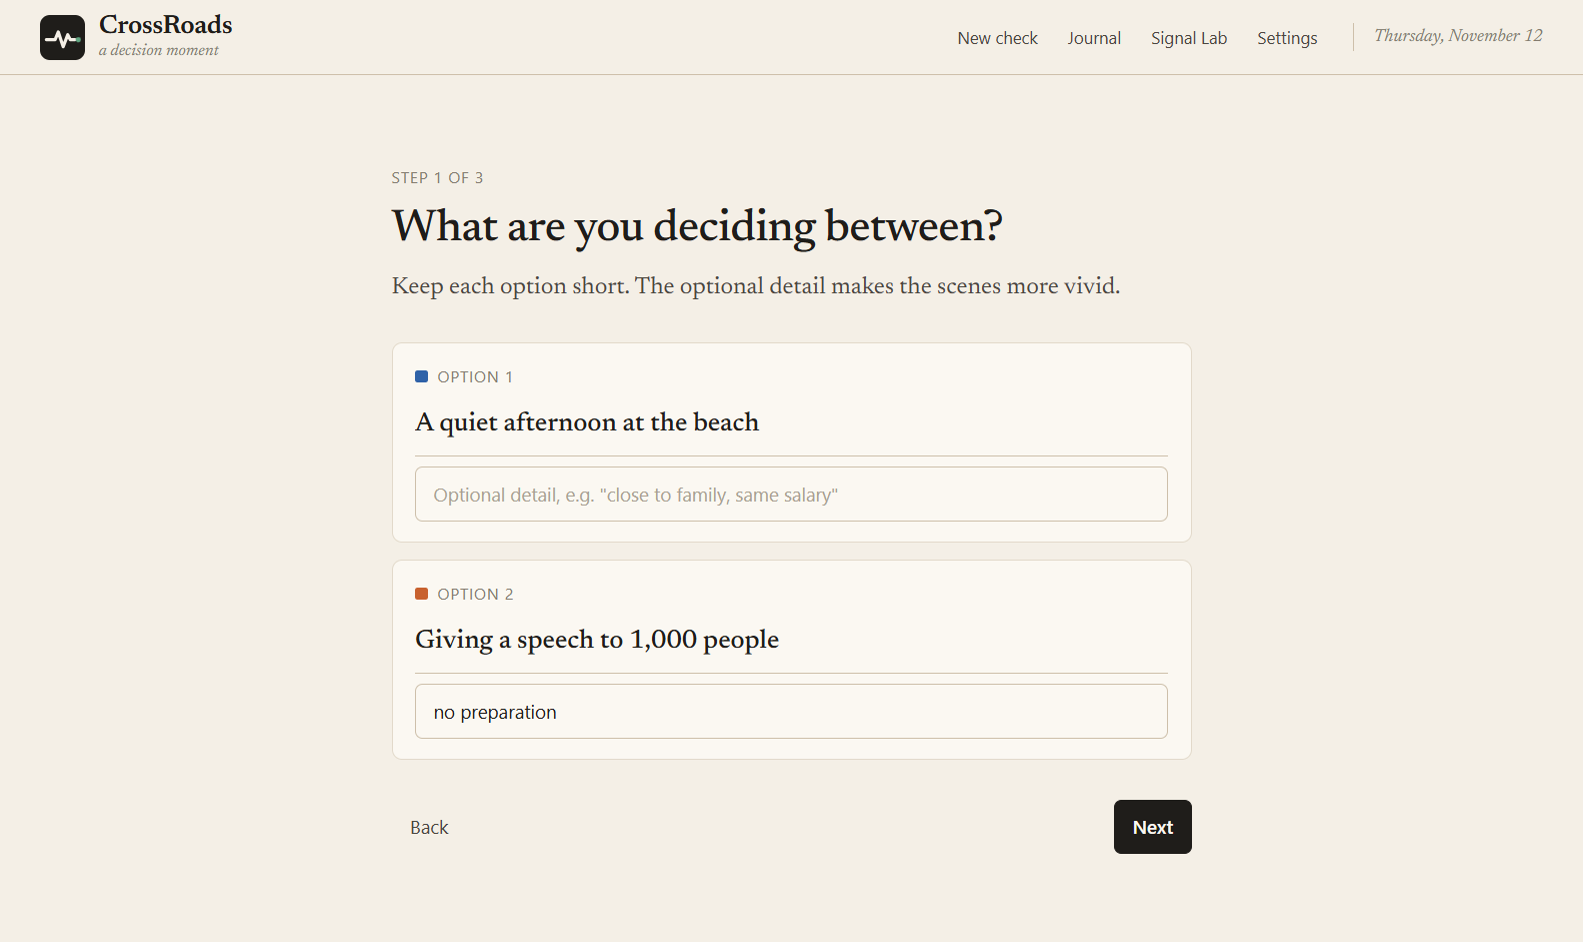
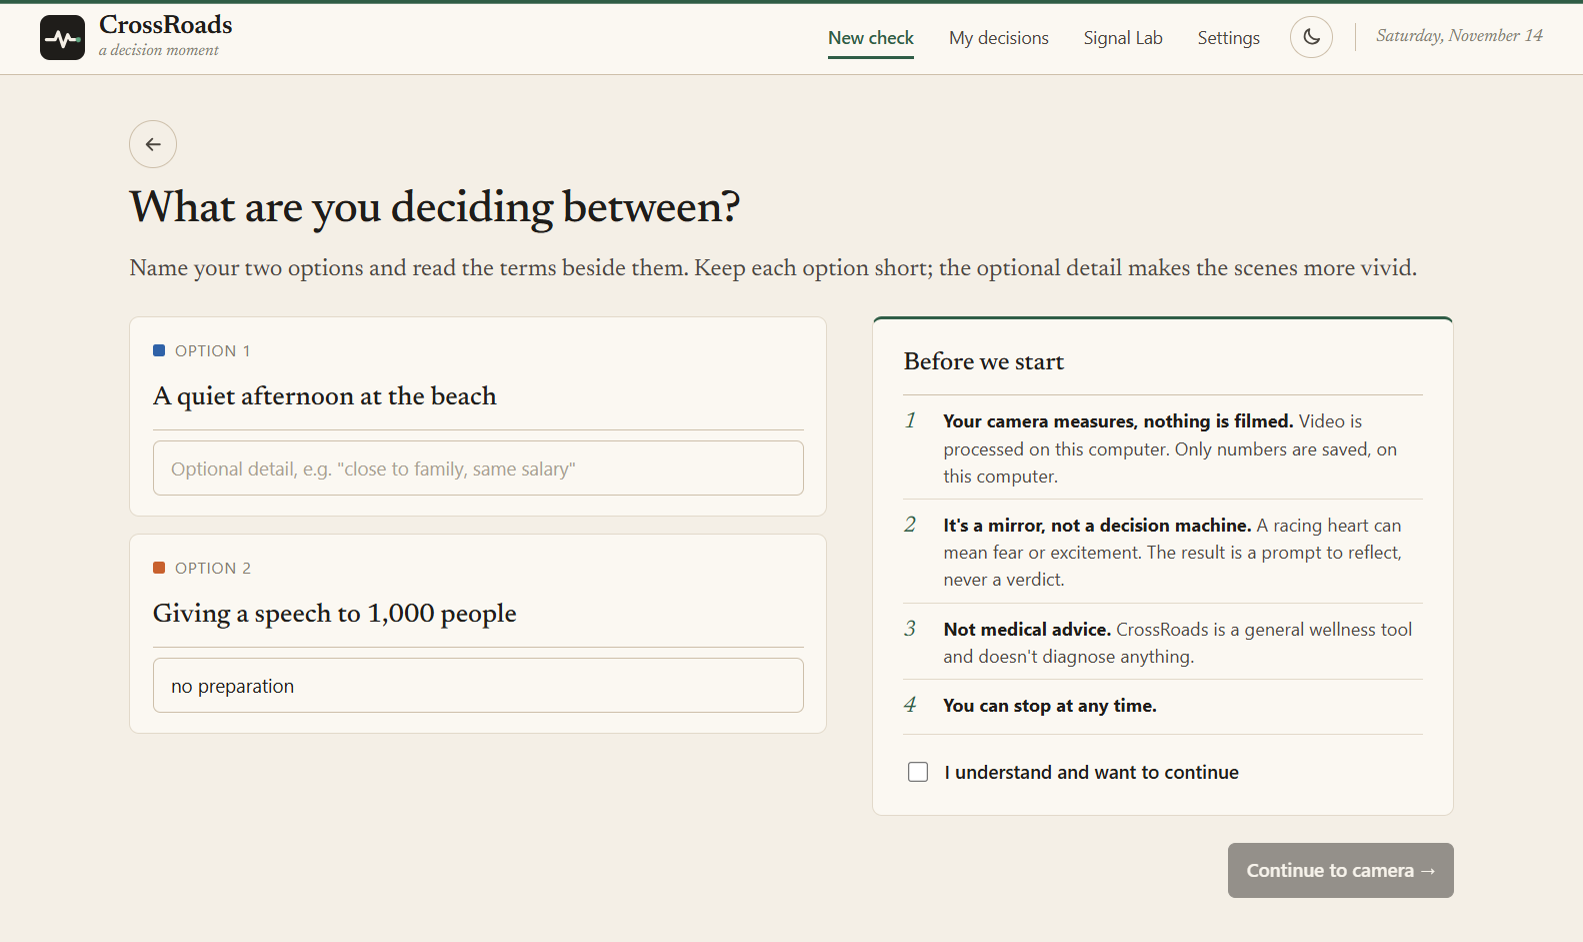
README screenshots retaken from the final UI (real sessions, dark mode, My decisions); validation notes cover the Nov 14 sessions and installer scan

diff --git a/src/main/main.js b/src/main/main.js
@@ -344,7 +344,10 @@ function createWindow() {
         const positions = ['0', '(document.body.scrollHeight - innerHeight) / 2', 'document.body.scrollHeight'];
         // GUTCHECK_SCROLLTO=<css selector> keeps every shot on that section instead of cycling.
         if (process.env.GUTCHECK_SCROLLTO) {
-          positions.fill(`document.querySelector(${JSON.stringify(process.env.GUTCHECK_SCROLLTO)}).getBoundingClientRect().top + scrollY - 100`);
+          const t = process.env.GUTCHECK_SCROLLTO;
+          // "#id" style selector, or "@<index>" for the n-th results section.
+          const el = t.startsWith('@') ? `document.querySelectorAll('.r-section')[${Number(t.slice(1))}]` : `document.querySelector(${JSON.stringify(t)})`;
+          positions.fill(`${el}.getBoundingClientRect().top + scrollY - 90`);
         }
         await win.webContents.executeJavaScript(`window.scrollTo(0, ${positions[n % 3]})`);
         const img = await win.webContents.capturePage();

diff --git a/README.md b/README.md
@@ -30,8 +30,8 @@
 > **TL;DR** · Stuck between two options? CrossRoads guides you through short scenes for each option, **twice, in a mirrored order (A B B A)**, while the [Presage SmartSpectra SDK](https://smartspectra.presagetech.com/) reads your pulse from your camera. It then shows a **mirror, not a verdict**: your pulse through the session, the moments your body reacted, and questions to reflect on. It names a "calmer" option **only when both rounds agree beyond normal pulse wobble**. We tested that rule against ourselves: a tea-vs-coffee control (it correctly said nothing) and a beach-vs-speech positive control (it found the calm option once, and on an identical repeat it honestly said it could not tell). Everything runs on your computer; video is never saved.
 
 <p align="center">
-  <img src="docs/images/05-results-verdict.png" width="900" alt="CrossRoads results screen for the bundled sample session">
-  <br><sub>The bundled sample session (recorded by the developer): a calm scene vs a stressful scene, each imagined twice.</sub>
+  <img src="docs/images/05-results-verdict.png" width="900" alt="CrossRoads results screen for a real check">
+  <br><sub>A real check by the developer: the pulse was about 10 bpm lower in both rounds for one option. A mirror, not a verdict.</sub>
 </p>
 
 ## Contents
@@ -76,9 +76,10 @@ Light by default, with a dark "night journal" mode (moon button, or Settings →
 
 | | |
 |---|---|
-| ![Welcome](docs/images/01-welcome.png)<br><sub>Welcome: begin a check, or try the sample without a camera.</sub> | ![Options](docs/images/02-options.png)<br><sub>Two options, each with an optional detail woven into the prompts.</sub> |
-| ![Session](docs/images/04-session.png)<br><sub>During a session: live tiles (pulse with a heart beating at your rate, breathing, blinks, expression), the prompt, progress through the four visits. <em>Sample replay shown.</em></sub> | ![Consent](docs/images/03-consent.png)<br><sub>Consent before any measurement.</sub> |
-| ![Timeline](docs/images/06-results-timeline.png)<br><sub>Pulse through the session; hover any point to see the prompt on screen at that moment. <em>Sample.</em></sub> | ![Moments](docs/images/07-results-moments.png)<br><sub>Moments your body reacted, and questions to sit with. <em>Sample.</em></sub> |
+| ![Welcome](docs/images/01-welcome.png)<br><sub>Welcome: begin a check, or try the sample without a camera.</sub> | ![Options](docs/images/02-options.png)<br><sub>Two options on one page, with the consent beside them.</sub> |
+| ![Session](docs/images/04-session.png)<br><sub>During a session: live tiles, the prompt, and the live pulse line (it takes the colour of the option you are imagining). <em>Sample replay shown.</em></sub> | ![Numbers](docs/images/08-results-numbers.png)<br><sub>By the numbers: each option's average, then every visit with its pulse, breathing, blinks and signal quality.</sub> |
+| ![Timeline](docs/images/06-results-timeline.png)<br><sub>Pulse through the session: reliable readings in black, lower-confidence ones faint, each visit's average in the option's colour. Hover to see the prompt at that moment.</sub> | ![Moments](docs/images/07-results-moments.png)<br><sub>Moments your body reacted, and questions to sit with.</sub> |
+| ![My decisions](docs/images/10-my-decisions.png)<br><sub>My decisions: every check, what you decided, and how it compared with your body. Stored only on your computer.</sub> | ![Dark mode](docs/images/09-dark-mode.png)<br><sub>Night-journal dark mode.</sub> |
 
 ## How it responds to human signals
 
@@ -101,14 +102,17 @@ The first version compared each option once with a calm baseline. Our **tea-vs-c
 
 ![Validation results](docs/images/validation.svg)
 
-| Validation session (Nov 12, daylight) | CrossRoads said |
+| Validation session (daylight) | CrossRoads said |
 |---|---|
 | Control: drink tea vs drink coffee | **Didn't pick a side** ✓ (a looser rule would have said "calmer with tea") |
 | Real decision: stay in my city vs move to Bangalore | **Didn't pick a side** (the two rounds disagreed) |
 | Positive control, run 1: a quiet afternoon at the beach vs giving a speech to 1,000 people with no preparation | **Calmer with the beach** ✓ (−10.0 and −8.1 bpm) |
 | Positive control, run 2: the same two options again, ~8 hours later, better signal | **Didn't pick a side** (the rounds disagreed: speech +2.1, then −7.5 bpm) |
+| Nov 14, final build: stay in my city vs move to Bangalore (again) | **Didn't pick a side** (70.0 vs 70.0 bpm) |
+| Nov 14: do a master's abroad vs start working | **No clear winner**, but one moment stood out (+8.4 bpm at "what did you give up for it?") |
+| Nov 14: tell my parents I want a different career vs keep going with the path they chose | **Calmer with "keep going"** (both rounds beyond 6 bpm; says nothing about which is right) |
 
-The app never invented a winner when the evidence was weak or contradictory, and it found a real reaction once but not on the repeat, so a clear reaction is not guaranteed in a four-minute session. Four sessions from one person are not a study. Full numbers, the calibration and the limits: [docs/VALIDATION.md](docs/VALIDATION.md). Check the sample yourself with `npm run analyze`.
+The app never invented a winner when the evidence was weak or contradictory. Across seven sessions it named a calmer option twice and said "no clear winner" five times, and it found the beach reaction once but not on the repeat, so a clear reaction is not guaranteed in a four-minute session. Seven sessions from one person are not a study. Full numbers, the calibration and the limits: [docs/VALIDATION.md](docs/VALIDATION.md). Check the sample yourself with `npm run analyze`.
 
 <details>
 <summary><strong>How the verdict is decided</strong></summary>
@@ -191,7 +195,7 @@ npm start
 
 ## Limitations
 
-- **One person, four validation sessions.** Not a study. The positive control was found once and not on the repeat.
+- **One person, seven validation sessions.** Not a study. The positive control was found once and not on the repeat.
 - **Pulse wobbles 6–9 bpm minute to minute**, so most real decisions will honestly show no clear winner. That is the point of a mirror. When one prompt still made your pulse jump by 6 bpm or more, the result leads with it, as a question rather than proof (single moments can be chance).
 - **The SDK's pulse is a ~12 s rolling average**; moments are reflection cues, not second-by-second measurements.
 - **A higher pulse isn't "worse"**: excitement and fear both raise it. The app asks; it never decides.

diff --git a/docs/VALIDATION.md b/docs/VALIDATION.md
@@ -13,10 +13,17 @@
 | **Positive control, run 1:** "a quiet afternoon at the beach" vs "giving a speech to 1,000 people with no preparation" | a real reaction | speech +10.0 | speech +8.1 | **Calmer with the beach** ✓ |
 | **Positive control, run 2** (same options, installed app, ~8 hours later) | a real reaction | speech +2.1 | speech −7.5 | **Didn't pick a side** (rounds disagree) |
 
+| Session (Nov 14, daylight) | What should happen | Round 1 | Round 2 | CrossRoads said |
+|---|---|---|---|---|
+| **Real decision, repeated:** "stay in my city" vs "move to Bangalore" | unknown | Bangalore +0.3 | Bangalore −0.3 | **Didn't pick a side** (a true tie: 70.0 vs 70.0 bpm) |
+| **Real decision:** "do a master's abroad" vs "start working after graduation" | unknown | work −2.1 | work +8.0 | **No clear winner** (rounds disagree), one moment stood out: +8.4 bpm at "what did you give up for it?" |
+| **Real decision:** "tell my parents I want a different career" vs "keep going with the path they chose" | unknown | telling +10.7 | telling +9.4 | **Calmer with "keep going"** (both rounds beyond 6 bpm; says nothing about which is right) |
+
 **What this shows, honestly:**
 - The app **never invented a winner** in the three sessions where the evidence was weak or contradictory (control, real decision, positive control run 2). That is the property that matters most.
 - It **found the calm option once** (run 1) but **not on a repeat** (run 2), even though run 2 had excellent signal quality. So a clear reaction is **not guaranteed to show up** in a four-minute session; the repeat is the more cautious, more honest data point.
 - Four sessions from one person are encouraging about honesty, and a reminder about sensitivity. This is not a study.
+- **Three more on Nov 14** (final build, same person): of the seven sessions in total the app named a calmer option twice (the beach, and a real career decision where both rounds agreed by about 10 bpm), and said "no clear winner" five times, including the tea-vs-coffee control. Most real decisions are mixed, which is why "didn't pick a side" has to be a respectable answer rather than a failure.
 
 ## 1. The first design failed its own control (Nov 11)
 
@@ -60,7 +67,7 @@ The rule, as implemented in [`src/core/analysis.js`](../src/core/analysis.js):
 
 ![Verdict flow](images/verdict-flow.svg)
 
-## 4. The three validation sessions (Nov 12)
+## 4. The validation sessions (Nov 12 and Nov 14)
 
 Setup: daylight from a window, Samsung phone as the camera through Windows Phone Link (steady 30 fps), sitting back, reading prompts silently.
 
@@ -85,6 +92,23 @@ Notes:
 - In the control, tea was lower in both rounds (by 5.0 and 3.9 bpm). A looser rule would have announced "calmer with tea"; the 6 bpm floor correctly refused.
 - The positive control had weaker signal; its first speech visit kept 9 reliable readings (the minimum is 8). The verdict is valid but close to the data-quality edge.
 - The real decision's rounds pointed in opposite directions. "Didn't pick a side" is the honest answer, not a failure.
+
+### Nov 14: three real decisions on the final build
+
+Same setup (daylight, phone camera, 30 fps), same person, about 15 minutes apart with rest between.
+
+| Session | Order | A₁ | B₁ | A₂ | B₂ | Stable readings | Verdict |
+|---|---|---|---|---|---|---|---|
+| City (A) vs Bangalore (B) | B A A B | 69.1 (12) | 69.5 (9) | 70.8 (8) | 70.5 (13) | 79% | didn't pick a side |
+| Master's (A) vs work (B) | B A A B | 69.8 (29) | 67.8 (9) | 69.3 (27) | 77.3 (27) | 92% | no clear winner |
+| Telling parents (A) vs keep going (B) | A B B A | 70.5 (30) | 59.8 (11) | 65.8 (28) | 75.3 (28) | 87% | calmer with "keep going" |
+
+(Each cell: median pulse in bpm, reliable readings in brackets.)
+
+- The city-vs-Bangalore repeat landed on **70.0 vs 70.0 bpm**, the clearest tie we have. The first run on Nov 12 had also been a tie, for a different reason (rounds in opposite directions).
+- In the master's session the rounds disagreed, but the pulse rose 8.4 bpm at one question, so the result leads with that moment, as a question rather than proof (one moment can be chance, and the tea-vs-coffee control had one too). A tie screen therefore only promotes a moment of 6 bpm or more.
+- The parents session is the only real decision where both rounds agreed beyond the 6 bpm floor. A lower pulse while imagining the familiar path is not evidence it is the right path: the app asks "which was it, tension or excitement?"
+- One visit in the city session kept exactly 8 reliable readings (the minimum), so it is close to the data-quality edge.
 
 The first positive control (run 1) is bundled with the app as the [sample session](../samples/beach-vs-speech) (camera name removed). Anyone can check its numbers:
 

diff --git a/docs/DEVELOPMENT-LOG.md b/docs/DEVELOPMENT-LOG.md
@@ -205,6 +205,7 @@ smartspectra-challenge/
 | 2026-11-13 | **UI pass** after competitor/UI reference research: one-screen landing with an example figure and 4 steps; masthead shade + scroll behaviour; dark "night journal" mode; options and consent merged; camera check guide card, ready steps and **Hide me** blur; live pulse line under the prompt; results restructured (answer + crossroads, open numbers table, connected chart with visit averages and a key, moment times); "You decided" record and match summary; **Save as image** card (no pulse numbers); Settings redesign; phone camera owner names stripped from the UI and logs. 26 tests. |
 | 2026-11-13 | **Tests 26 → 44.** Result wording moved to `wording.js` and tested (ties read as an answer, a choice is never called wrong); replay source, requested-metrics list, B A A B order, v1 sessions, jump filter. Privacy notes now list the seven requested measurements. |
 | 2026-11-14 | Two live sessions (city vs Bangalore, master's vs work) both tied, honestly. The tie screen now leads with the biggest single pulse jump when it clears 6 bpm ("No clear winner, but one moment stood out"), framed as a question because the tea-vs-coffee control also had one. Verdict rule unchanged. Landing step strip removed. 47 tests. |
+| 2026-11-14 | Third live session (telling my parents vs keeping the current path): a clear lean, 87% stable, both rounds ~10 bpm. Save-as-image card gains an "I chose: …" line. Final installers built and scanned (no key). README screenshots retaken from the final UI with real sessions, plus dark mode and My decisions. Seven validation sessions in total. |
 
 ## How to build the installer
 

diff --git a/docs/MANUAL-TESTS.md b/docs/MANUAL-TESTS.md
@@ -36,6 +36,9 @@ Checks that need a real camera, a real API key or the installed app, with the da
 | Nov 12 (5:45 PM) | installed CrossRoads 1.0.0 | beach vs speech again (A B B A) | excellent signal (98% stable, confidence 83); didn't pick a side (rounds disagreed: +2.1, −7.5 bpm); session, recording and choice saved ✓ |
 | Nov 14 | phone, daylight (dev build) | city vs Bangalore again (A B B A) | 79% stable, 30 fps; rounds −0.3 / +0.3 bpm → didn't pick a side; decision saved, Save as image ✓ |
 | Nov 14 | phone, daylight (dev build) | master's abroad vs start working (A B B A) | 92% stable; rounds +2.1 / −8.0 → no clear winner; biggest jump +8.4 bpm at "what did you give up for it?" (led to the tie wording change) |
+| Nov 14 | phone, daylight (dev build) | tell my parents vs keep going (A B B A) | 87% stable; rounds +10.7 / +9.4 → calmer with "keep going"; decision saved ✓ |
+| Nov 14 | installer build 1.0.0 | `npm run dist`, then key scan | no key prefix (old or spare) in the installer, the portable exe or the unpacked app; no .env, sessions or recordings inside ✓ |
+| Nov 14 | installed app (Setup exe) | install, spare key in Settings, sample, a real session, Save as image | works ✓ (My decisions starts empty; data lives in %APPDATA%\crossroads) |
 
 ## How to run the installer scan
 

diff --git a/docs/ROADMAP.md b/docs/ROADMAP.md
@@ -46,6 +46,7 @@ Legend: `[ ]` to do · `[x]` done · 👤 = needs **you (Pawan)** · 💳 = spen
 - [x] Control experiment (tea vs coffee) + real decision → single visits can't tell options apart (see OVERVIEW)
 - [x] Redesign: 2 options × 2 visits in mirrored order (A B B A), ~4 min, faster option-specific prompts
 - [x] Pulse-only comparison: median of stable, confident readings; quality check per visit
+- [x] Final build packaged and scanned for keys (Nov 14); README screenshots retaken (Nov 14)
 - [x] Verdict calibrated on real data: names a calmer option only if both rounds agree by > max(wobble, 6 bpm); otherwise "Your body didn't pick a side"
 - [x] Decision with Pawan: **a mirror, not a verdict**
 - [x] Results screen: option cards, pulse timeline (hover shows the prompt on screen), "moments your body reacted", reflection questions, method + limits
